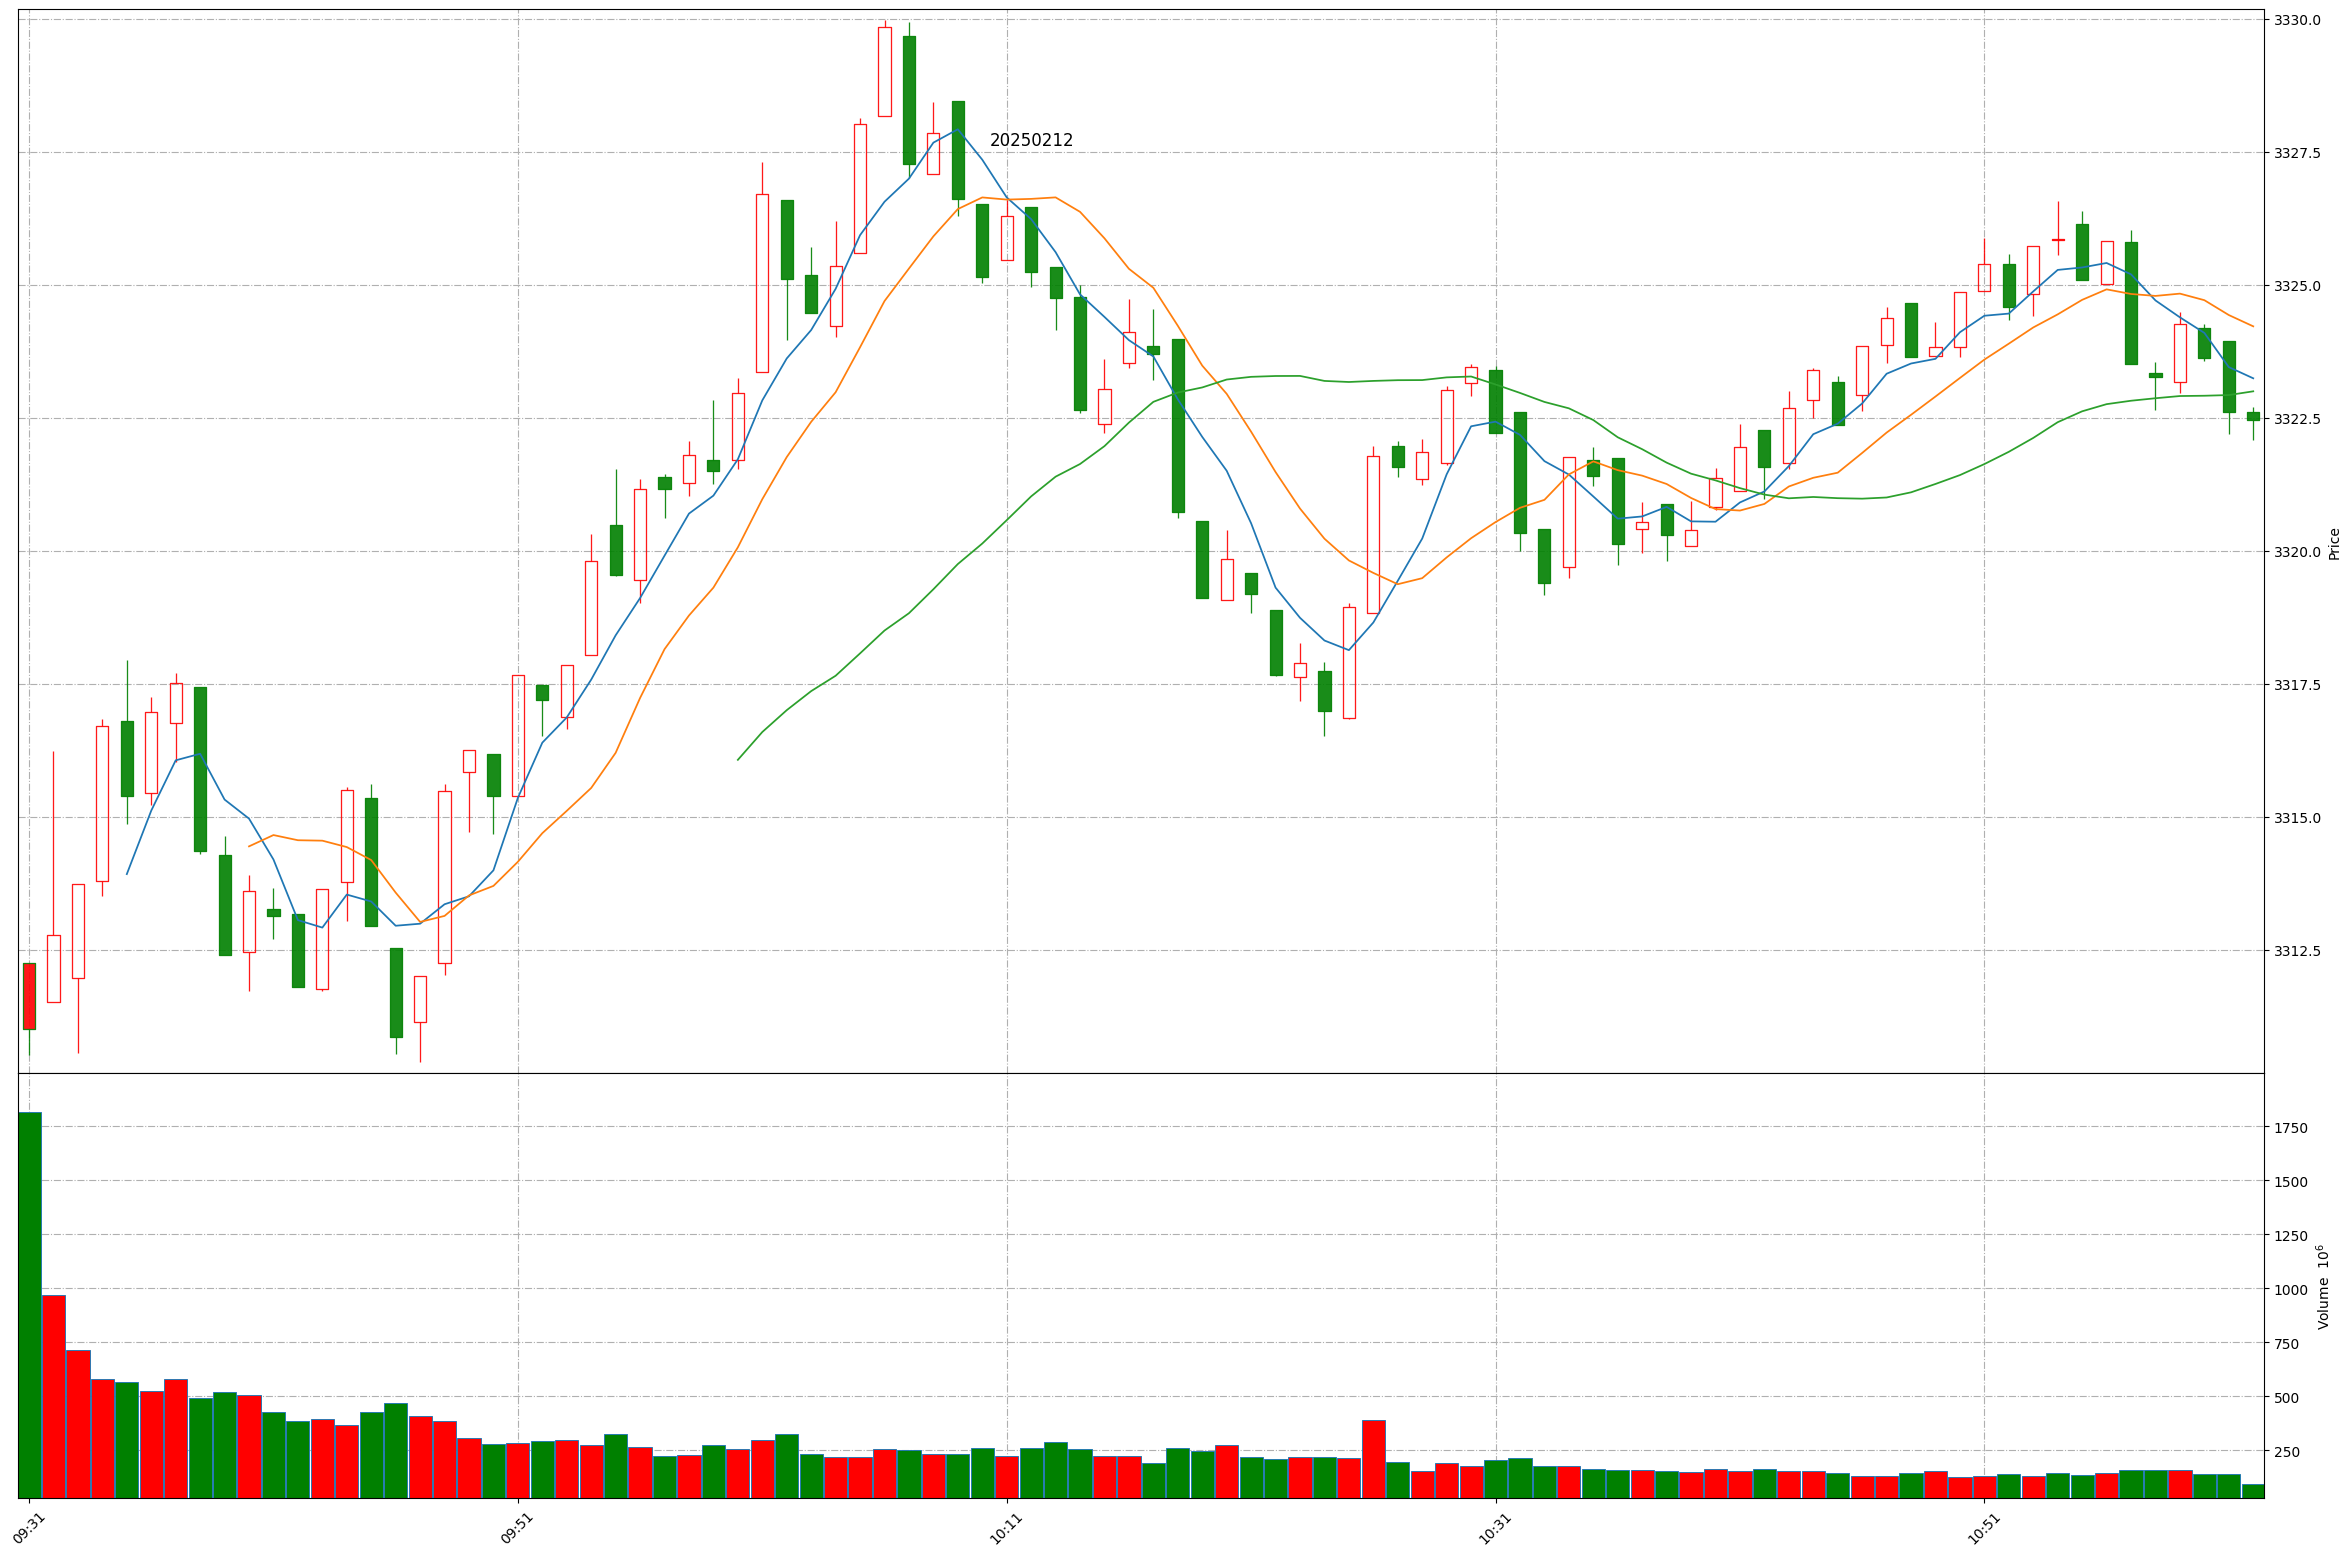
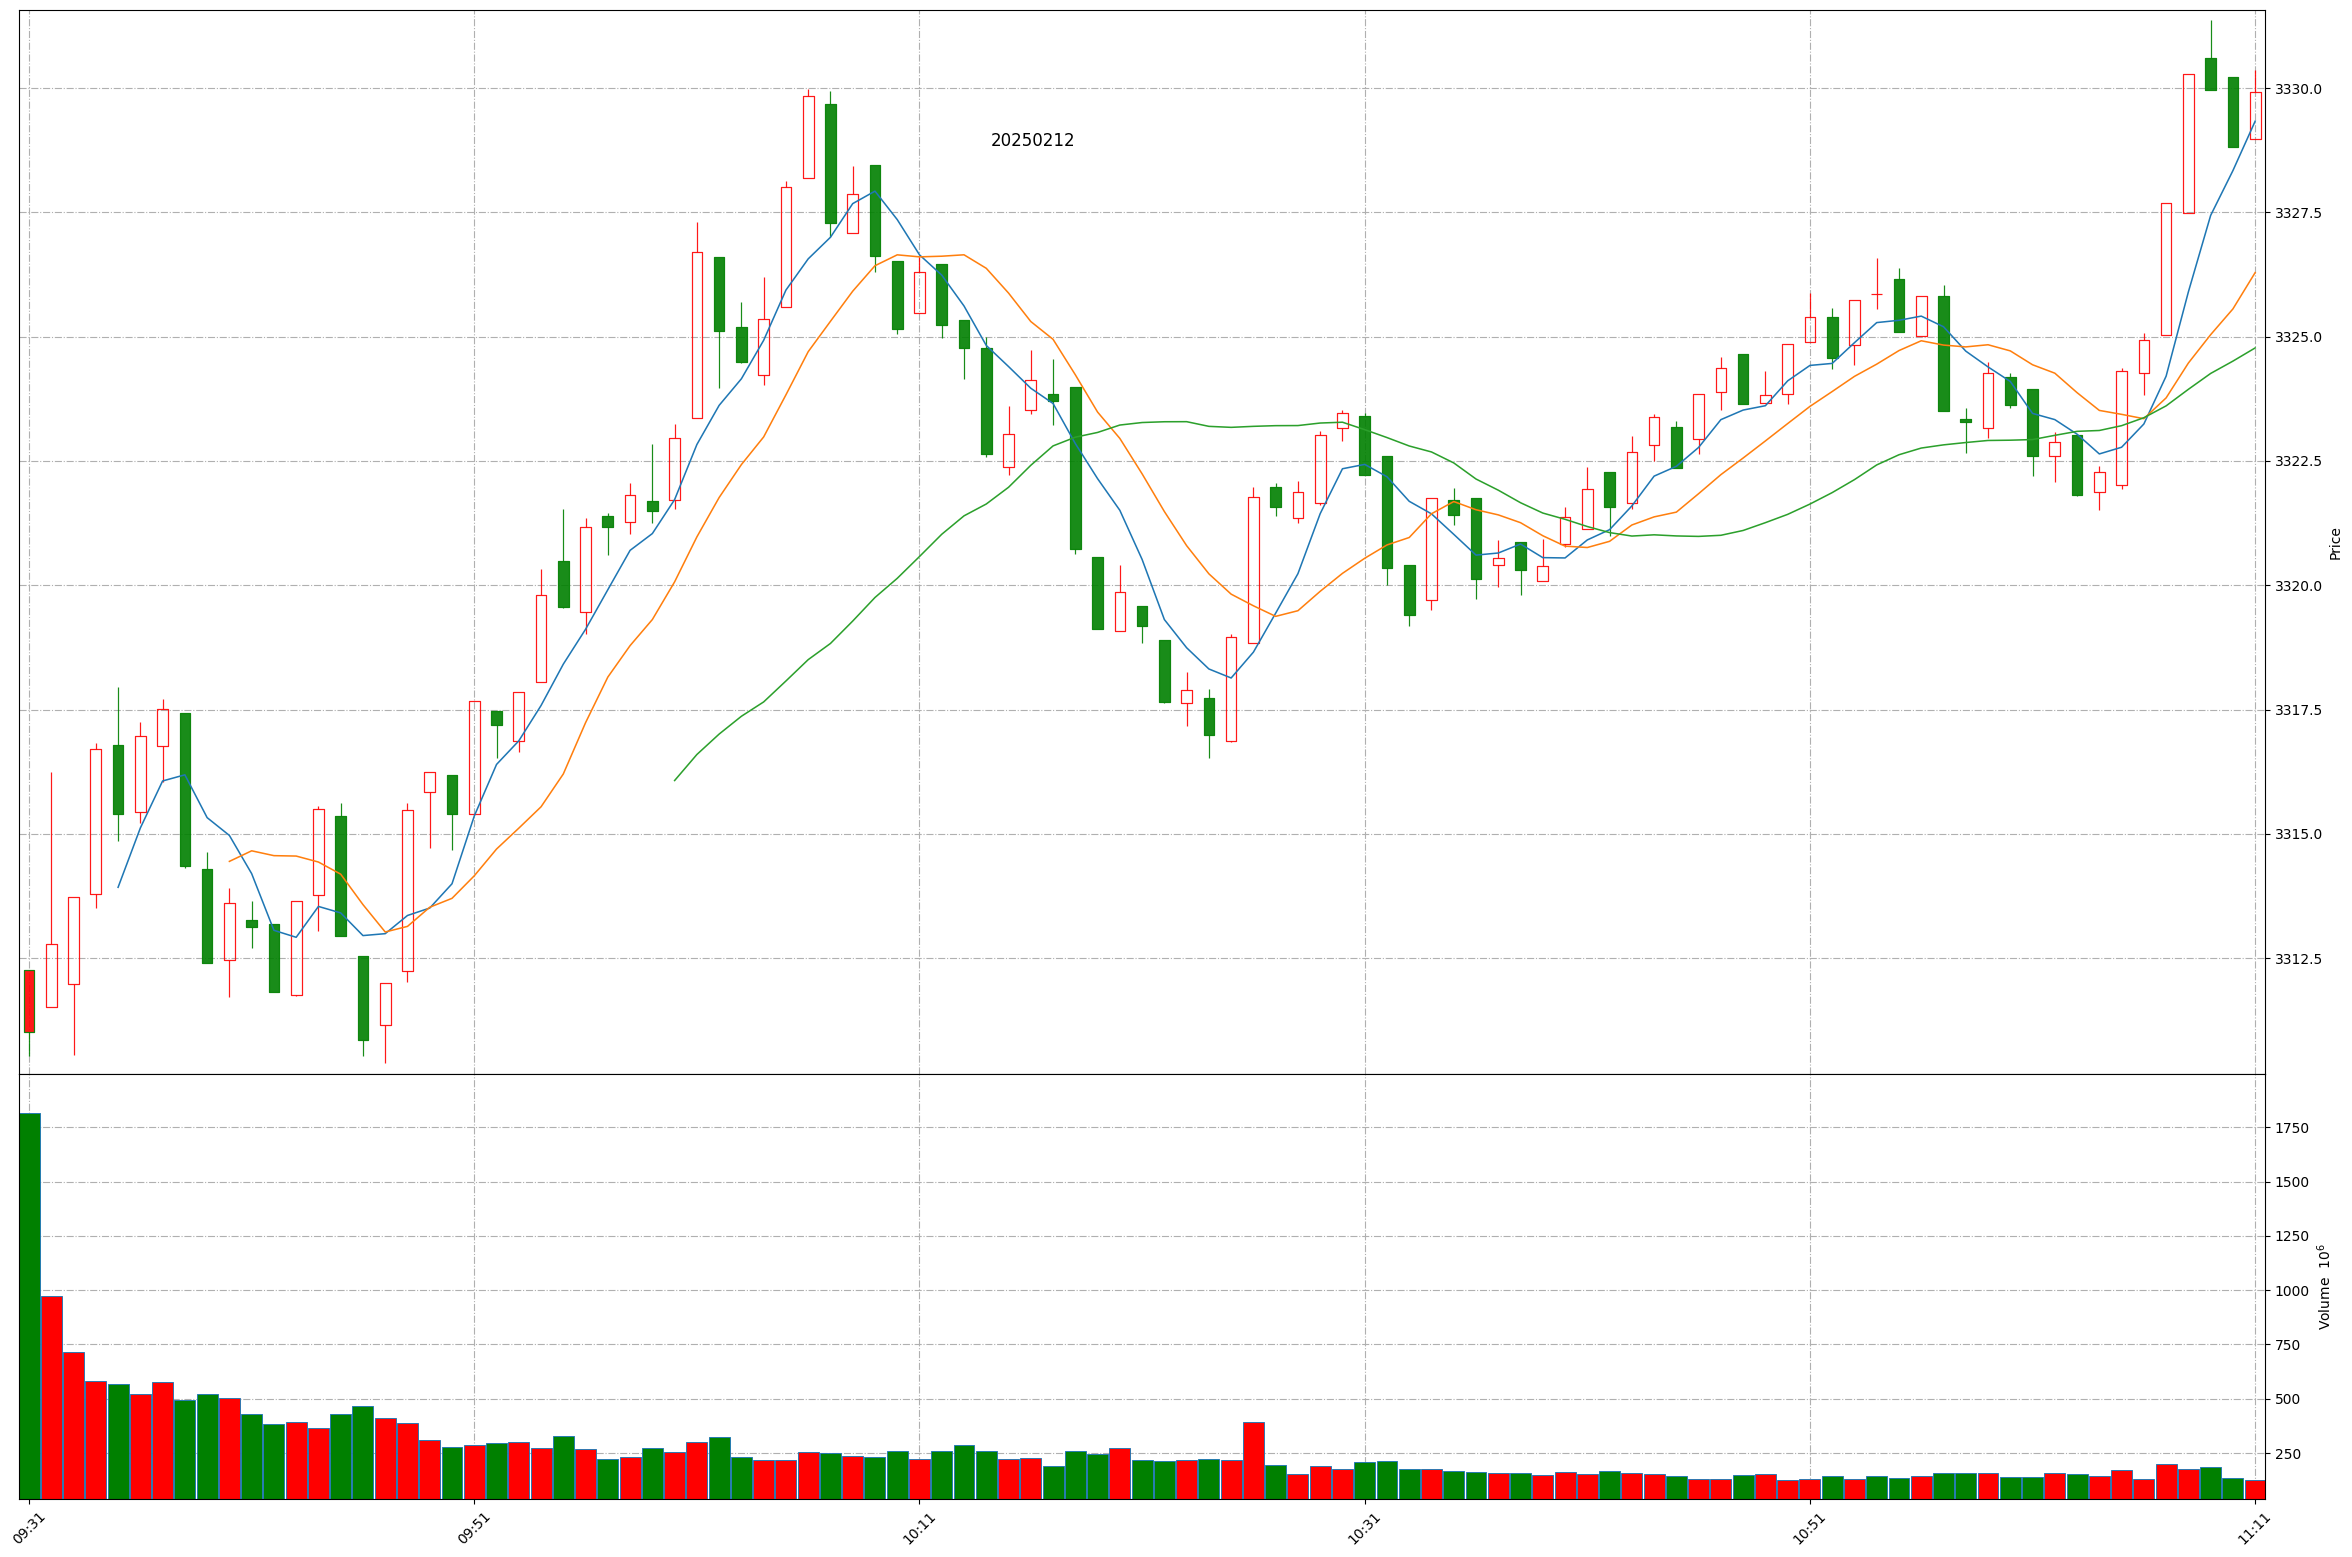
Github action update at 2025-02-12 11:11:16.

diff --git a/README.md b/README.md
@@ -1,11 +1,11 @@
 
 # Daily-A-share-market-quotes 每日 A 股指数（5min 更新）- 20250212
 
-### 上证指数 20250212 11:1
+### 上证指数 20250212 11:11
 ![](./fig/2025/2/20250212-sh000001.png)
 
-### 深证成指 20250212 11:1
+### 深证成指 20250212 11:11
 ![](./fig/2025/2/20250212-sz399001.png)
 
-### 北证50 20250212 11:1
+### 北证50 20250212 11:11
 ![](./fig/2025/2/20250212-bj899050.png)
